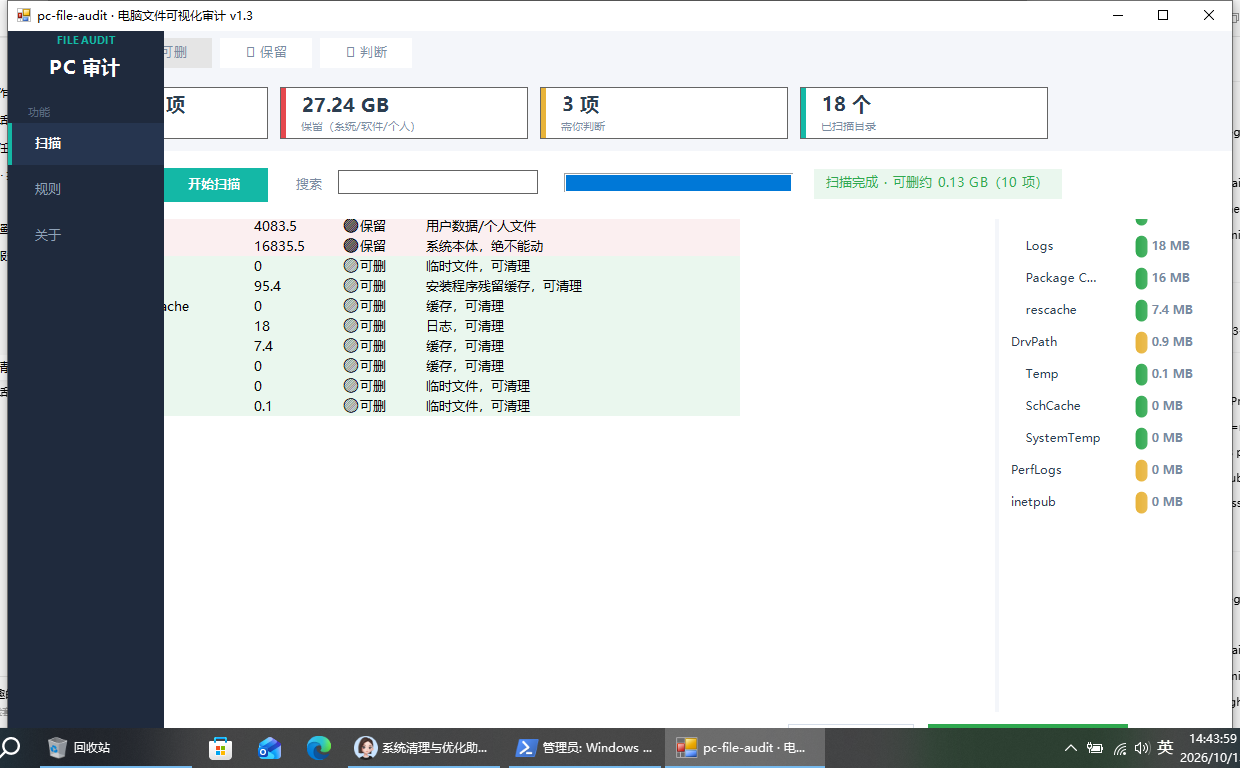
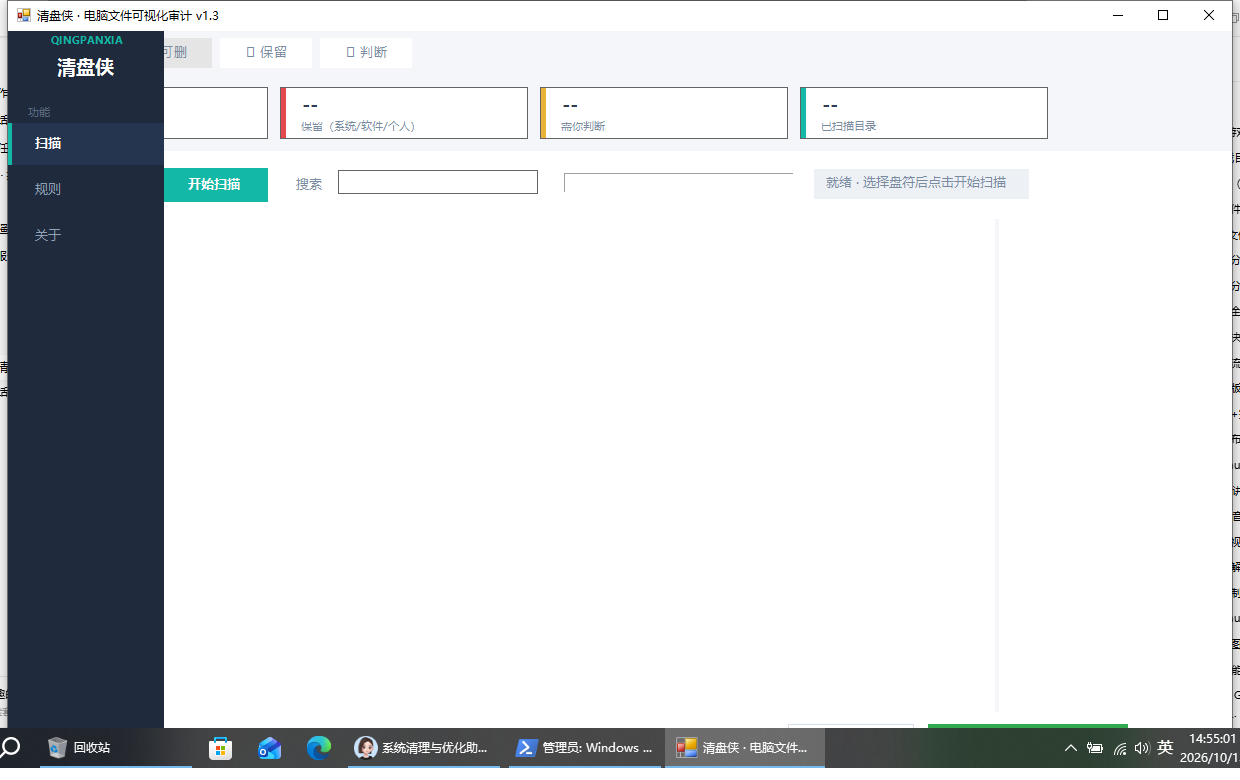
rename: pc-file-audit → qingpanxia（清盘侠）—— 全链改名（仓库/脚本/文档/GUI品牌）+ 许可证个人免费商用授权

diff --git a/qingpanxia-gui.py b/qingpanxia-gui.py
@@ -1,11 +1,11 @@
-# -*- coding: utf-8 -*-
+# -*- coding: utf-8 -*-
 """
-pc-file-audit GUI —— 电脑文件可视化审计窗口
+qingpanxia GUI —— 电脑文件可视化审计窗口
 ============================================
 扫描电脑各盘目录 → 识别每个文件夹功能 → 三档分类（红/绿/黄）
 → 可视化条形图 + 勾选删除（优先进回收站）
 
-运行：双击本文件 或  python pc-file-audit-gui.py
+运行：双击本文件 或  python qingpanxia-gui.py
 依赖：仅 Python 标准库（tkinter 随 Python 自带，Windows 直接可用）
 """
 import os
@@ -19,7 +19,7 @@ import tkinter as tk
 from tkinter import ttk, messagebox
 
 # ---------- 常量 ----------
-APP_TITLE = "pc-file-audit · 电脑文件可视化审计"
+APP_TITLE = "qingpanxia · 电脑文件可视化审计"
 APP_VERSION = "1.0"
 SCAN_SKIP_TOP = {"$RECYCLE.BIN", "System Volume Information", "Documents and Settings", "Recovery", "Boot"}
 SCAN_SKIP_FILE = {"pagefile.sys", "swapfile.sys", "hiberfil.sys", "dumpstack.log.tmp"}

diff --git a/SKILL.md b/SKILL.md
@@ -1,9 +1,9 @@
 ---
-name: pc-file-audit
+name: qingpanxia
 description: 电脑全盘文件功能审计与清理决策。当用户要求"分析电脑/磁盘上的所有文件是什么""看下这些文件夹是干什么的、还需要吗""清理空文件夹/残留目录""生成文件清理判断清单"时使用。覆盖 Windows 本地电脑：扫描目录占用 → 识别每个文件夹功能（软件/系统/个人数据/缓存残留）→ 三档分类（必须保留/明确可删/用户判断）→ 用户决策后执行清理（白名单+进回收站）→ 输出汇报与文档。
 ---
 
-# PC 文件审计（pc-file-audit）
+# PC 文件审计（qingpanxia）
 
 ## 概述
 
@@ -97,10 +97,10 @@ description: 电脑全盘文件功能审计与清理决策。当用户要求"分
 
 ## 可视化窗口（GUI 模式，2026-10-12 加入）
 
-用户要求"扫客户电脑后做成可视化窗口"或需要给非技术用户自助清理时，交付 `pc-file-audit-gui.ps1`（PowerShell + WinForms，**零依赖**——客户机只需 Windows 自带 PowerShell 5.1，无需装 Python/任何库）。
+用户要求"扫客户电脑后做成可视化窗口"或需要给非技术用户自助清理时，交付 `qingpanxia-gui.ps1`（PowerShell + WinForms，**零依赖**——客户机只需 Windows 自带 PowerShell 5.1，无需装 Python/任何库）。
 
 用法（v1.3，2026-10-13 现代视觉 + 参考 FluentCleaner/WinUtil/PowerToys 开源设计）：
-1. 复制 `pc-file-audit-gui.ps1` 到客户电脑，右键 → 使用 PowerShell 运行（或双击）
+1. 复制 `qingpanxia-gui.ps1` 到客户电脑，右键 → 使用 PowerShell 运行（或双击）
 2. **左侧导航三页**：扫描 / 规则 / 关于（深色侧栏 + 品牌青绿指示条 + 分组小节标题）
 3. 扫描页：选择盘符 → 开始扫描 → **统计概览卡**（可删/保留/需判断/已扫目录 4 张仪表盘卡）→ 表格列出每个目录（名称/大小/🔴保留/🟢可删/🟡判断/说明）+ 右侧 GDI+ 自绘圆角渐变条形图 Top15
 4. **分类筛选 chips**：全部 / 🟢可删 / 🔴保留 / 🟡判断 一键筛选（点击高亮，可叠加搜索）；**搜索过滤**：顶部搜索框实时过滤（400ms 防抖），条形图随过滤联动
@@ -117,13 +117,13 @@ description: 电脑全盘文件功能审计与清理决策。当用户要求"分
 - **WinForms 现代视觉零依赖套路**：主题色变量 + FlatStyle 扁平按钮 + Panel.Add_Paint 自绘（圆角 GraphicsPath + LinearGradientBrush 渐变条）+ Dock 分区布局 + Label 徽章胶囊（BackColor+AutoSize+Padding）
 - 脚本必须 UTF-8 BOM；`Add-Type -TypeDefinition` 内联 C# 实现回收站删除
 - 验证参数：`-AutoScan D:` 启动后自动扫描指定盘，便于自动化截图验证；无头截图用 `Graphics.CopyFromScreen` 全屏截 + `DrawImage(源矩形)` 裁剪窗口（cu 截图在另一会话会全白）
-- 辅助实现 `pc-file-audit-gui.py`（tkinter 版）仅在系统 Python 带完整 Tcl 时可用；沙箱/精简 Python 会报 `Can't find a usable init.tcl`，优先用 .ps1 版
+- 辅助实现 `qingpanxia-gui.py`（tkinter 版）仅在系统 Python 带完整 Tcl 时可用；沙箱/精简 Python 会报 `Can't find a usable init.tcl`，优先用 .ps1 版
 
 ## MCP Server 模式（2026-10-13 加入）
 
-用户要求"让任意 AI 客户端（Claude/Cursor/豆包等）通过 MCP 协议调用扫描/分类/删除能力"时，交付 `pc-file-audit-mcp.ps1`（**PowerShell 原生实现 MCP stdio 协议，零依赖**——客户机只需 Windows 自带 PowerShell 5.1，无需 Python/uv/任何库）。借鉴 Windows-MCP（CursorTouch/Windows-MCP，MIT）"能力即工具"思想，代码全部原创。
+用户要求"让任意 AI 客户端（Claude/Cursor/豆包等）通过 MCP 协议调用扫描/分类/删除能力"时，交付 `qingpanxia-mcp.ps1`（**PowerShell 原生实现 MCP stdio 协议，零依赖**——客户机只需 Windows 自带 PowerShell 5.1，无需 Python/uv/任何库）。借鉴 Windows-MCP（CursorTouch/Windows-MCP，MIT）"能力即工具"思想，代码全部原创。
 
-启动：`powershell -NoProfile -ExecutionPolicy Bypass -File pc-file-audit-mcp.ps1`（MCP 客户端配置为本地 stdio server 即可）
+启动：`powershell -NoProfile -ExecutionPolicy Bypass -File qingpanxia-mcp.ps1`（MCP 客户端配置为本地 stdio server 即可）
 
 **7 个工具**（协议：newline-delimited JSON-RPC 2.0）：
 - `scan_disk(drive)` 全盘扫描一级/二级目录 → 名称/大小MB/分类/风险级/说明
@@ -152,8 +152,8 @@ description: 电脑全盘文件功能审计与清理决策。当用户要求"分
 ## 资源
 
 - `scripts/scan_dirs.ps1` —— 目录占用扫描（一级/二级/大文件），只读
-- `pc-file-audit-gui.ps1` —— **可视化窗口 GUI（零依赖，客户电脑直接可跑）**
-- `pc-file-audit-mcp.ps1` —— **MCP Server（零依赖，任意 AI 客户端可接入）**
+- `qingpanxia-gui.ps1` —— **可视化窗口 GUI（零依赖，客户电脑直接可跑）**
+- `qingpanxia-mcp.ps1` —— **MCP Server（零依赖，任意 AI 客户端可接入）**
 - `references/dir-guide.md` —— Windows 常见目录功能对照表 + 分类规则
 - `references/fixes.md` —— 实战修复案例（服务文件缺失、SCM 缓存、卸载残留、回收站清不净）
 - `references/experience-log.md` —— **经验库**：每次任务的复盘沉淀，是自我迭代的载体

diff --git a/README.md b/README.md
@@ -1,4 +1,4 @@
-# pc-file-audit · PC 文件审计与清理决策技能
+# 清盘侠（qingpanxia）· PC 文件审计与清理决策技能
 
 > 让 AI 助手帮你把电脑上每个文件夹/文件"是什么、多大、能不能删"讲清楚，你逐项拍板，安全清理。**个人免费 · 商用需授权 · 社区共建**
 
@@ -9,7 +9,7 @@
 
 ---
 
-![pc-file-audit GUI v1.3 界面](docs/screenshot-v1.3.png)
+![清盘侠 GUI v1.3 界面](docs/screenshot-v1.3.png)
 
 ## 🎯 这是什么
 
@@ -26,11 +26,11 @@
 
 ### 方式一：装进 AI 助手（推荐）
 
-把本仓库 `pc-file-audit/` 文件夹复制到你电脑的 Skill 目录：
+把本仓库 `qingpanxia/` 文件夹复制到你电脑的 Skill 目录：
 
 ```
-Windows:  %USERPROFILE%\.doubao\agent_mode\workspace\.user_skills\pc-file-audit
-Claude:   ~/.claude/skills/pc-file-audit
+Windows:  %USERPROFILE%\.doubao\agent_mode\workspace\.user_skills\qingpanxia
+Claude:   ~/.claude/skills/qingpanxia
 ```
 
 然后对 AI 说：
@@ -59,9 +59,9 @@ powershell -ExecutionPolicy Bypass -File scripts/scan_dirs.ps1 -Drive D
 ```json
 {
   "mcpServers": {
-    "pc-file-audit": {
+    "qingpanxia": {
       "command": "powershell",
-      "args": ["-NoProfile", "-ExecutionPolicy", "Bypass", "-File", "D:\\path\\to\\pc-file-audit\\scripts\\pc-file-audit-mcp.ps1"]
+      "args": ["-NoProfile", "-ExecutionPolicy", "Bypass", "-File", "D:\\path\\to\\qingpanxia\\scripts\\qingpanxia-mcp.ps1"]
     }
   }
 }
@@ -73,10 +73,10 @@ powershell -ExecutionPolicy Bypass -File scripts/scan_dirs.ps1 -Drive D
 |---|---|
 | **Claude Desktop** | 编辑 `%APPDATA%\Claude\claude_desktop_config.json`（MSIX 版在 `%LOCALAPPDATA%\Packages\Claude*\LocalCache\Roaming\Claude\`），粘贴上面片段，完全退出重启 |
 | **Cursor** | 设置 → MCP → Add new MCP server → 类型 stdio，command 填 `powershell`，参数填上表 args |
-| **Claude Code** | 终端执行 `claude mcp add --transport stdio pc-file-audit -- powershell -NoProfile -ExecutionPolicy Bypass -File "<完整路径>"` |
+| **Claude Code** | 终端执行 `claude mcp add --transport stdio qingpanxia -- powershell -NoProfile -ExecutionPolicy Bypass -File "<完整路径>"` |
 | **Gemini CLI** | 编辑 `%USERPROFILE%\.gemini\settings.json`，加 `"mcpServers": {...}` 段 |
 | **Qwen Code** | 编辑 `%USERPROFILE%\.qwen\settings.json`，加 `"mcpServers": {...}` 段 |
-| **Codex CLI** | 编辑 `%USERPROFILE%\.codex\config.toml`，加 `[mcp_servers.pc-file-audit] command="powershell" args=[...]` |
+| **Codex CLI** | 编辑 `%USERPROFILE%\.codex\config.toml`，加 `[mcp_servers.qingpanxia] command="powershell" args=[...]` |
 | **Cherry Studio / ChatWise / AnythingLLM 等** | 设置 → MCP → 添加本地服务器：command `powershell`，args 同上 |
 
 **⚠ 安全提醒**：MCP 让 AI 获得操作电脑的能力，务必用可信的 AI 客户端、只配本机 localhost；本项目的删除护栏默认强制（只读扫描、删除需 `confirm=YES`、只进回收站+变更收据），与 Windows-MCP 默认全开相反，安装即安全。
@@ -101,16 +101,16 @@ powershell -ExecutionPolicy Bypass -File scripts/scan_dirs.ps1 -Drive D
 
 **启动**：
 ```powershell
-powershell -NoProfile -ExecutionPolicy Bypass -File pc-file-audit-mcp.ps1
+powershell -NoProfile -ExecutionPolicy Bypass -File qingpanxia-mcp.ps1
 ```
 
 **在 Claude Desktop 注册**（`claude_desktop_config.json`）：
 ```json
 {
   "mcpServers": {
-    "pc-file-audit": {
+    "qingpanxia": {
       "command": "powershell",
-      "args": ["-NoProfile", "-ExecutionPolicy", "Bypass", "-File", "D:\\path\\to\\pc-file-audit-mcp.ps1"]
+      "args": ["-NoProfile", "-ExecutionPolicy", "Bypass", "-File", "D:\\path\\to\\qingpanxia-mcp.ps1"]
     }
   }
 }
@@ -122,13 +122,13 @@ powershell -NoProfile -ExecutionPolicy Bypass -File pc-file-audit-mcp.ps1
 
 **手动自测**（管道方式，服务器逐行响应）：
 ```powershell
-'{"jsonrpc":"2.0","id":1,"method":"initialize","params":{}}' | powershell -NoProfile -ExecutionPolicy Bypass -File pc-file-audit-mcp.ps1
+'{"jsonrpc":"2.0","id":1,"method":"initialize","params":{}}' | powershell -NoProfile -ExecutionPolicy Bypass -File qingpanxia-mcp.ps1
 ```
 
 ## 📦 目录结构
 
 ```
-pc-file-audit/
+qingpanxia/
 ├── SKILL.md                  # 技能主文件（给 AI 读）
 ├── references/
 │   ├── dir-guide.md          # Windows 常见目录功能对照表
@@ -137,8 +137,8 @@ pc-file-audit/
 │   └── decisions.md          # 用户决策记忆模板
 ├── scripts/
 │   ├── scan_dirs.ps1         # 目录占用扫描脚本（只读）
-│   ├── pc-file-audit-gui.ps1 # 可视化窗口 GUI（零依赖）
-│   ├── pc-file-audit-mcp.ps1 # MCP Server（零依赖）
+│   ├── qingpanxia-gui.ps1 # 可视化窗口 GUI（零依赖）
+│   ├── qingpanxia-mcp.ps1 # MCP Server（零依赖）
 │   └── mcp_*_test.ps1        # MCP 全协议回归测试脚本
 ```
 
@@ -161,7 +161,7 @@ pc-file-audit/
 
 ## 📜 开源协议
 
-[pc-file-audit 自定义许可协议](LICENSE)：
+[qingpanxia 自定义许可协议](LICENSE)：
 
 - **个人使用完全免费**（自用、学习、修改都行）
 - **商用需作者（hulufeng）书面授权**——包括公司内部使用、对外服务、集成到商业产品、销售分发等

diff --git a/references/experience-log.md b/references/experience-log.md
@@ -1,6 +1,6 @@
 # 经验库（experience-log）
 
-本文件是 pc-file-audit 的自我迭代载体。每次使用 Skill 完成任务后，按 SKILL.md「自我迭代协议」在**顶部**追加新经验条目。新条目在上，旧条目在下。
+本文件是 qingpanxia 的自我迭代载体。每次使用 Skill 完成任务后，按 SKILL.md「自我迭代协议」在**顶部**追加新经验条目。新条目在上，旧条目在下。
 
 ---
 
@@ -87,20 +87,20 @@
 - ⑤**回收站删除 C# 内联**：`Add-Type -TypeDefinition` 定义 SHFILEOPSTRUCT + SHFileOperation(FO_DELETE|FOF_ALLOWUNDO|FOF_NOCONFIRMATION|FOF_SILENT)
 - ⑥**验证钩子**：脚本支持 `-AutoScan D:` 参数启动即自动扫描，配合整屏截图（System.Drawing CopyFromScreen）自动化验证 GUI
 - ⑦**函数名坑**：PowerShell 里自定义函数名 `Del` 与 Remove-Item 别名冲突，非交互模式报"朗读和提示功能不可用"——函数名避开内置别名
-- 产物：`pc-file-audit-gui.ps1`（仓库根目录）+ `pc-file-audit-gui.py`（tkinter 备用）
+- 产物：`qingpanxia-gui.ps1`（仓库根目录）+ `qingpanxia-gui.py`（tkinter 备用）
 - 状态：待合并（GUI 流程可复用）
 
 ---
 
 ## [2026-10-12] 技能开源发布 GitHub 流程经验
-- 场景：把 pc-file-audit 发布为开源仓库（免费使用、社区共建迭代）
+- 场景：把 qingpanxia 发布为开源仓库（免费使用、社区共建迭代）
 - 关键经验：
   1. **GitHub 密码认证已废弃**：git/API 只能用 Token 或 OAuth，不要尝试账号密码
   2. **国内网络**：GitHub releases 资产下载会超时，git 用 `registry.npmmirror.com/-/binary/git-for-windows/` 镜像；api.github.com 可直连
   3. **沙箱内 GCM 不弹浏览器**：Git Credential Manager 的浏览器授权窗口在沙箱/后台会话弹不出来；改用 **GitHub Device Flow**（`POST github.com/login/device/code` → 用户浏览器输设备码 → 轮询 `login/oauth/access_token`），全程可脚本化、用户只需输 8 位码
   4. **curl 传 JSON 到 GitHub API**：PowerShell 内联中文 JSON 会转义出错（"Problems parsing JSON"），用 `[IO.File]::WriteAllText` 写 body 文件 + `--data-binary @file`
   5. token 用环境变量传递、`git credential approve` 存入凭据管理器，避免落盘命令历史
-- 发布物：github.com/hulufeng/pc-file-audit（MIT、README/CONTRIBUTING/Issue模板齐备）
+- 发布物：github.com/hulufeng/qingpanxia（MIT、README/CONTRIBUTING/Issue模板齐备）
 - 状态：已合并（"GitHub 发布"流程可复用）
 
 ---

diff --git a/references/decisions.md b/references/decisions.md
@@ -1,6 +1,6 @@
-# 用户决策记录（decisions）
+# 用户决策记录（decisions）
 
-本文件记录用户对每个文件的删除/保留决策，是 pc-file-audit 的**决策记忆**。
+本文件记录用户对每个文件的删除/保留决策，是 qingpanxia 的**决策记忆**。
 格式：`路径 | 决策 | 时间`。新条目在上。后续审计同类文件时，直接按已记录决策执行（用户可随时推翻）。
 
 ---
